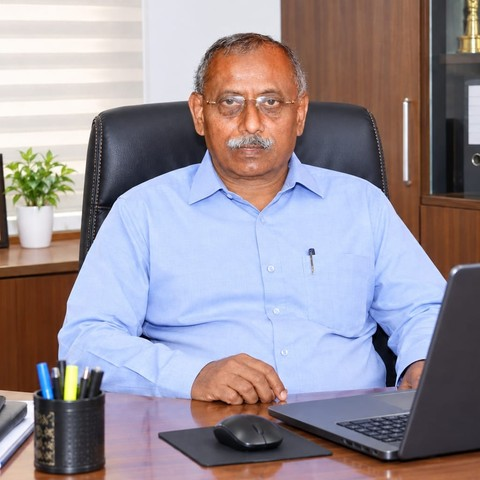
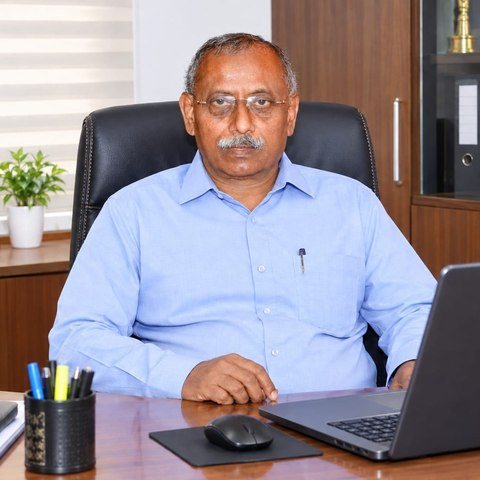
About: Projects Completed 1200+ -> 2000+, Years 29+ -> 28+; Team: 28-year journey, replace Exec Director photo (Sivagami Nathan); seed meta 28+ years

diff --git a/src/components/pages/AboutPage.tsx b/src/components/pages/AboutPage.tsx
@@ -83,12 +83,12 @@ function BarCounter({ value, suffix, label, maxVal, delay = 0, icon: Icon }: { v
 
 /* ─── Data ─── */
 const statsData = [
-  { value: 29, suffix: '+', label: 'Years of Expertise', maxVal: 32, icon: Clock },
+  { value: 28, suffix: '+', label: 'Years of Expertise', maxVal: 32, icon: Clock },
   { value: 364, suffix: '+', label: 'Team Members', maxVal: 400, icon: Users },
   { value: 200, suffix: '+ Cr', label: 'Annual Revenue', maxVal: 220, icon: TrendingUp },
   { value: 450, suffix: '+ MW', label: 'Solar Capacity', maxVal: 500, icon: Sun },
   { value: 10000, suffix: '+', label: 'LT Panels Installed', maxVal: 11000, icon: Factory },
-  { value: 1200, suffix: '+', label: 'Projects Completed', maxVal: 1300, icon: Building2 },
+  { value: 2000, suffix: '+', label: 'Projects Completed', maxVal: 2100, icon: Building2 },
 ]
 
 const MISSION_POINTS = [

diff --git a/src/app/api/seed/route.ts b/src/app/api/seed/route.ts
@@ -570,7 +570,7 @@ export async function GET() {
       { key: "social_twitter", value: "" },
       { key: "social_instagram", value: "" },
       { key: "meta_title", value: "Shri Vaari Electricals Pvt Ltd | HT/LT Panels, Switchyards, Solar EPC" },
-      { key: "meta_description", value: "Leading electrical engineering company in South India specializing in HT/LT panel manufacturing, EHV switchyards, solar EPC, and complete power infrastructure solutions. CRISIL BB+ rated, 29+ years experience." },
+      { key: "meta_description", value: "Leading electrical engineering company in South India specializing in HT/LT panel manufacturing, EHV switchyards, solar EPC, and complete power infrastructure solutions. CRISIL BB+ rated, 28+ years experience." },
       { key: "google_maps_embed", value: "" },
     ];
 

diff --git a/src/components/pages/TeamPage.tsx b/src/components/pages/TeamPage.tsx
@@ -103,7 +103,7 @@ export default function TeamPage() {
             <div className="w-16 h-[2px] mb-6" style={{ background: CORAL }} />
 
             <p className="text-sm md:text-base text-white/45 max-w-xl leading-relaxed">
-              Meet the people behind SVEPL&apos;s 29-year journey — from managing EHV projects to pioneering renewable energy solutions across South India.
+              Meet the people behind SVEPL&apos;s 28-year journey — from managing EHV projects to pioneering renewable energy solutions across South India.
             </p>
           </motion.div>
         </motion.div>
